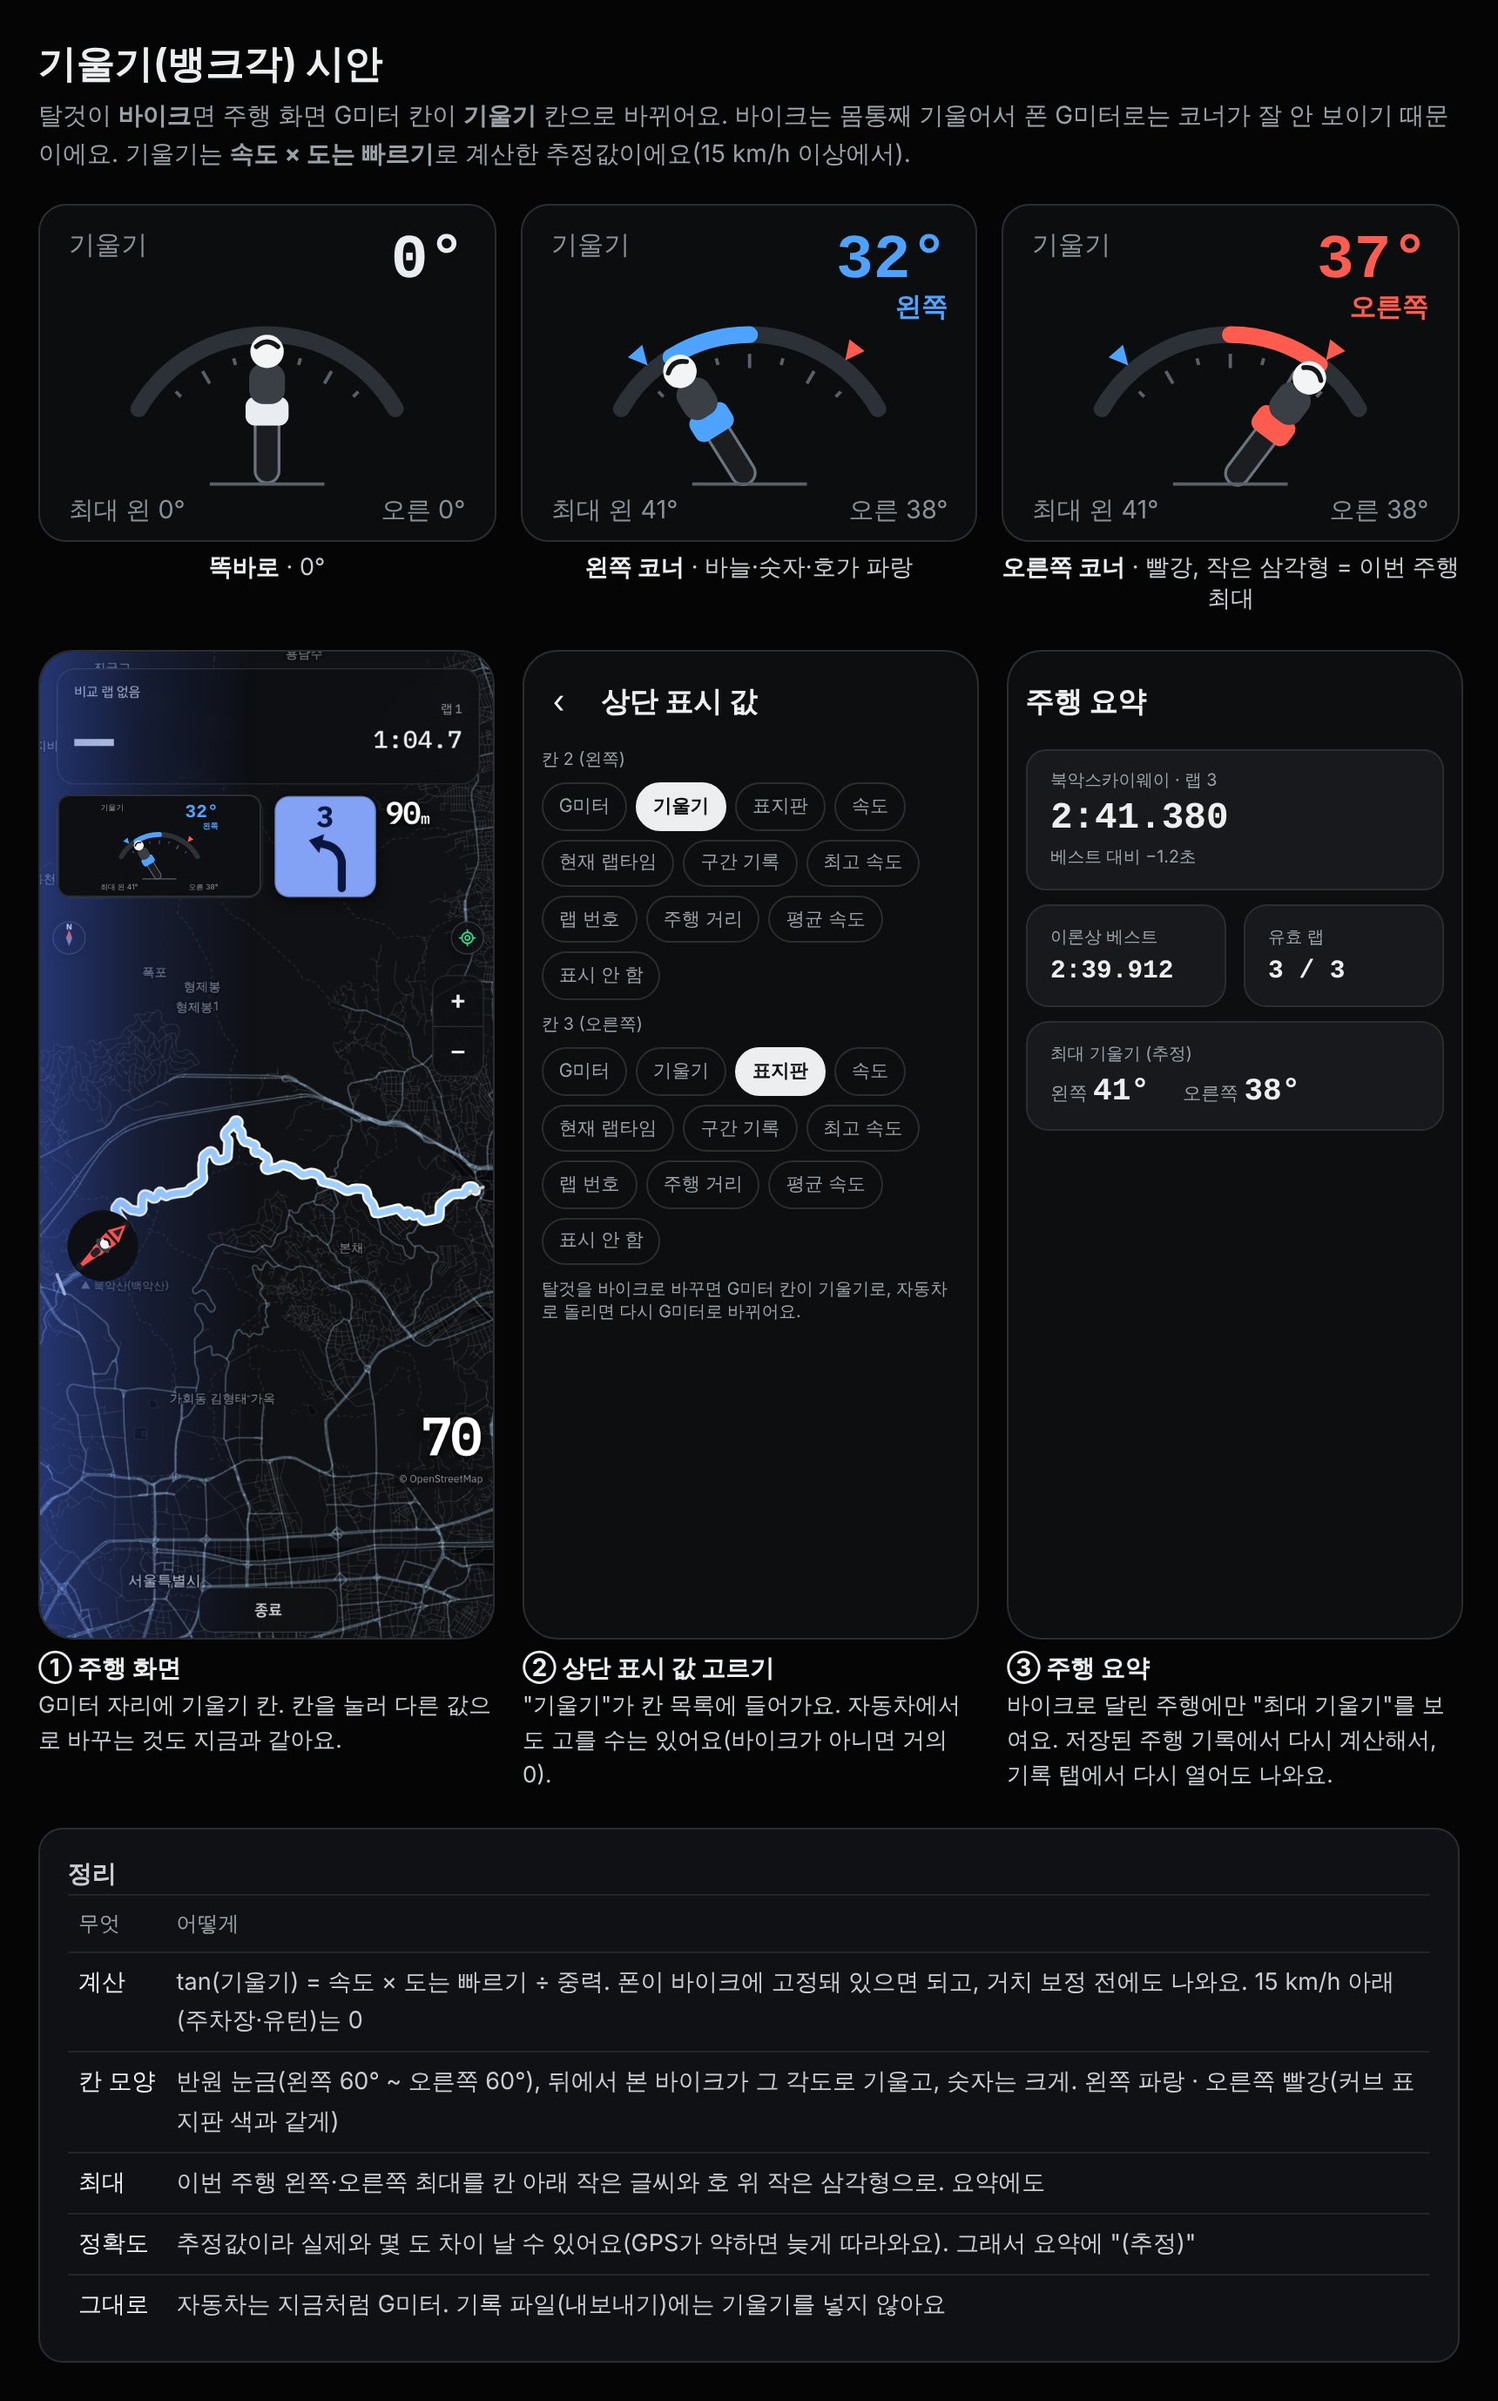
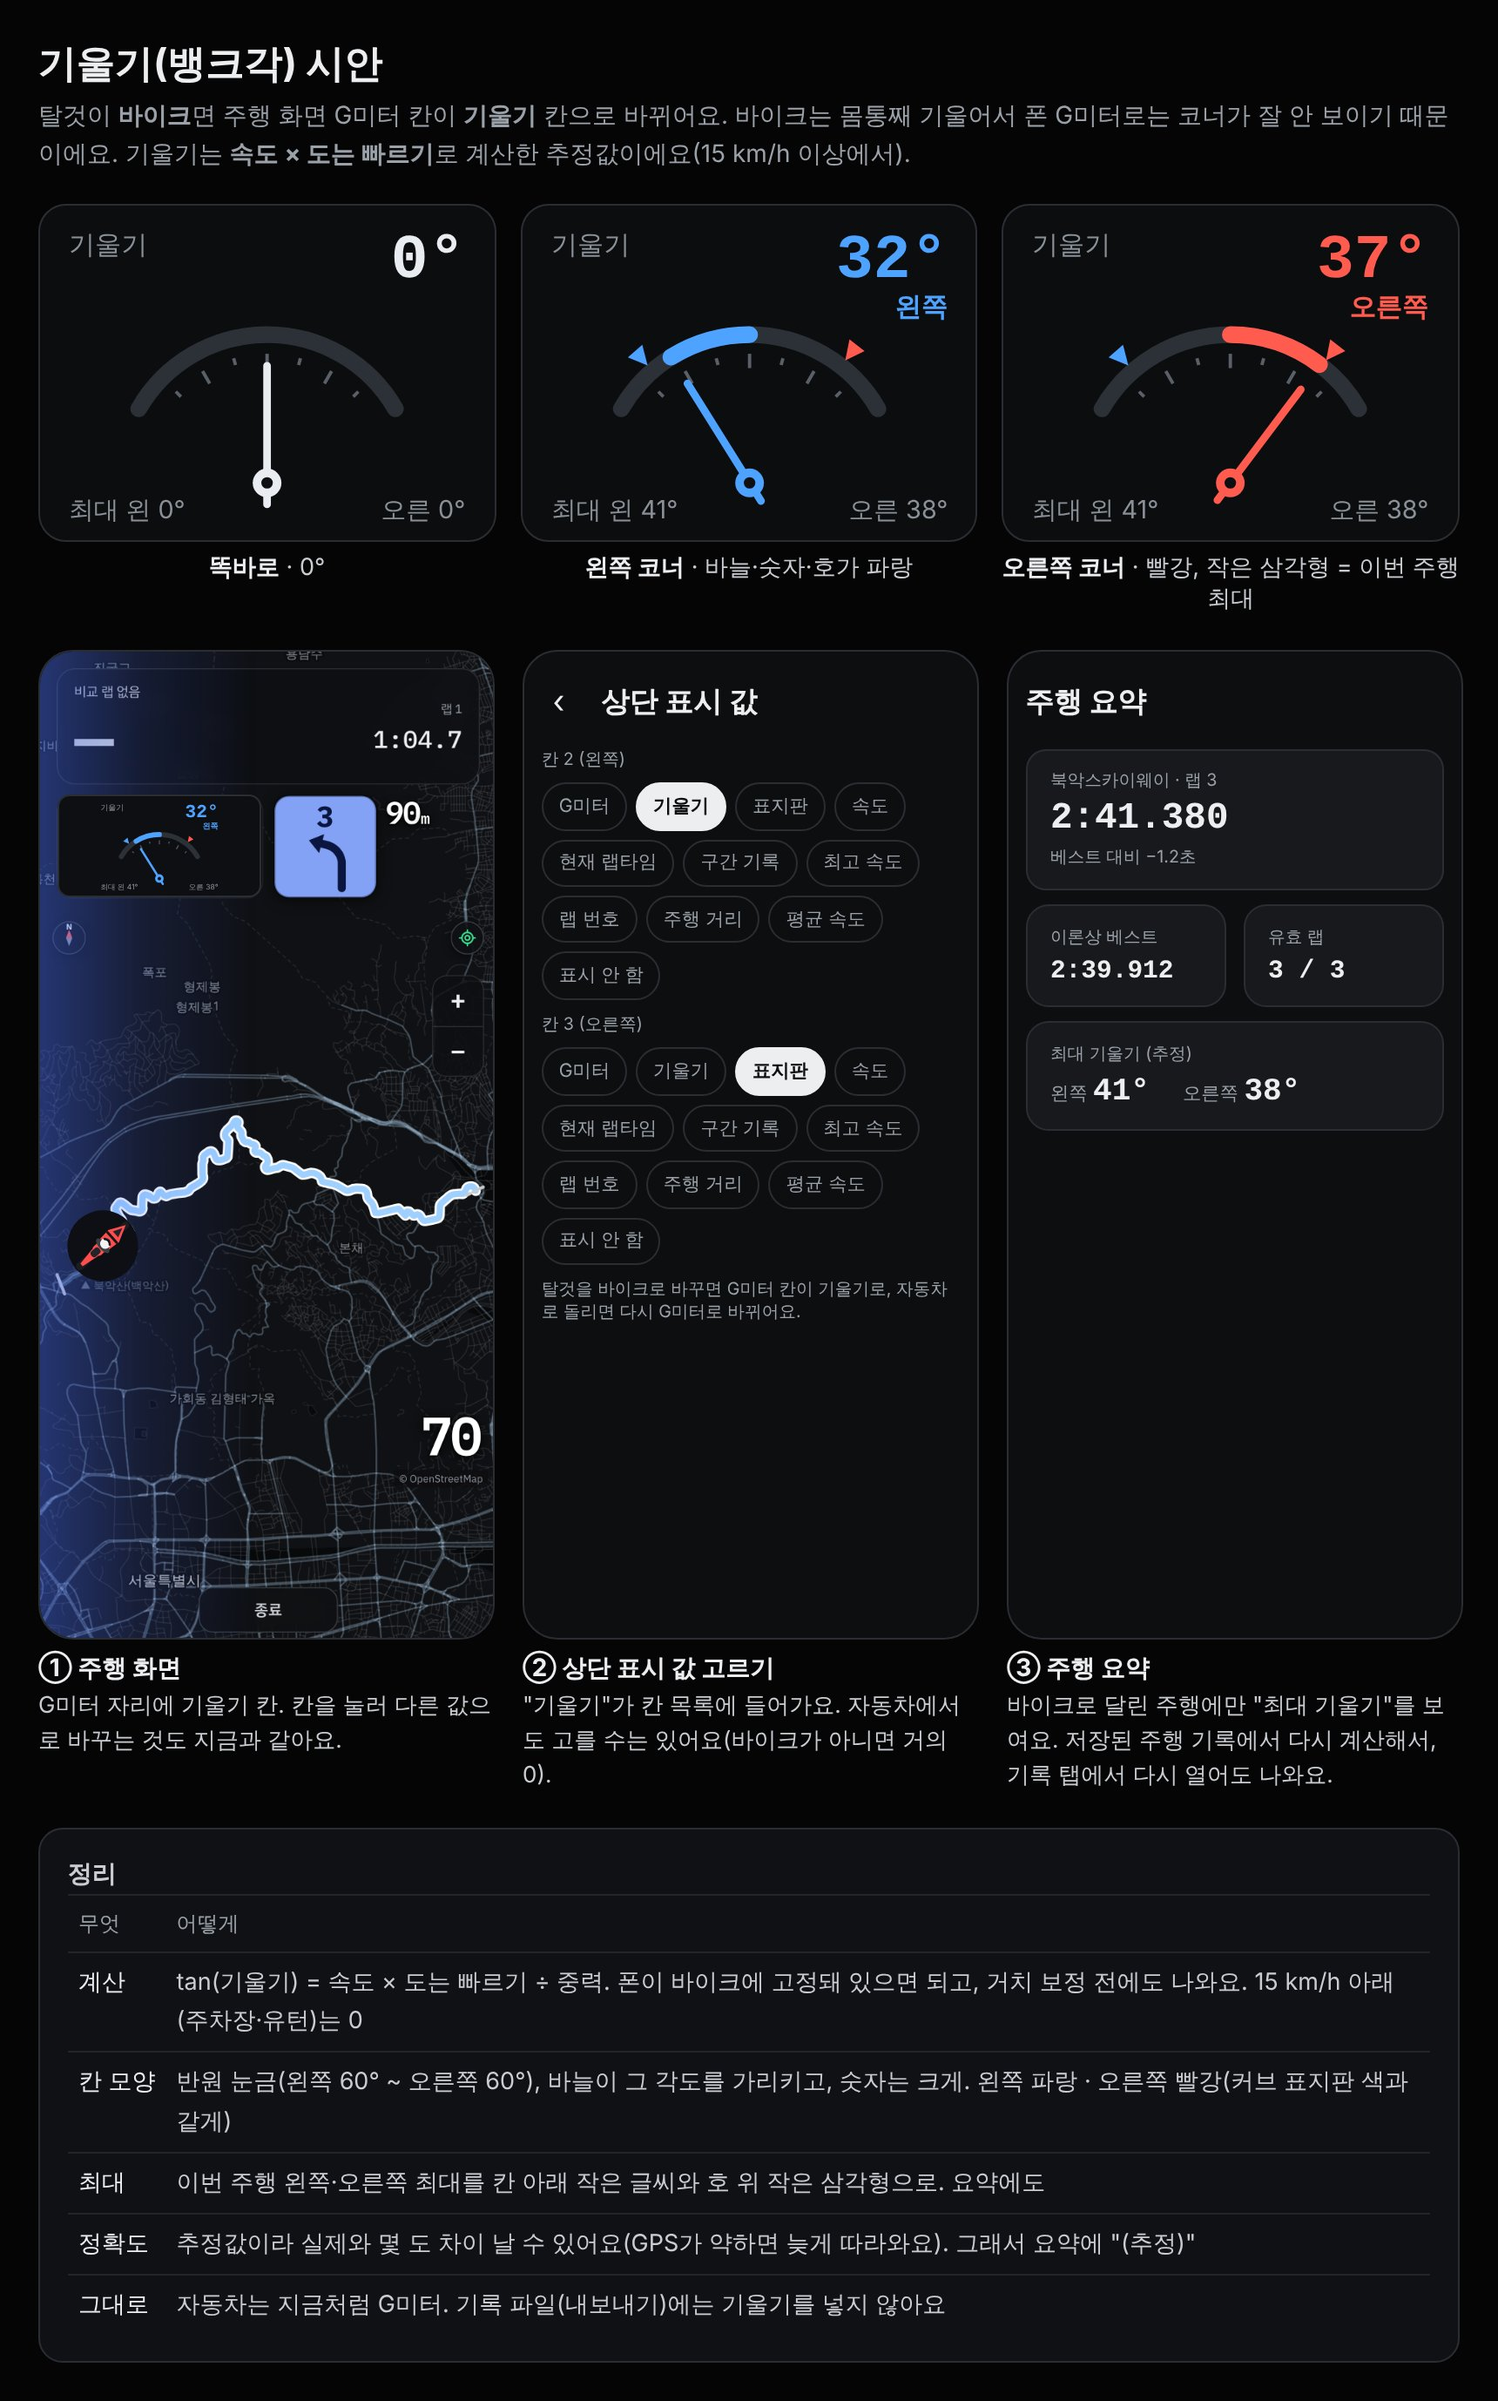
기울기 시안: 바이크 그림 대신 바늘 (세영 요청)
Claude-Session: https://claude.ai/code/session_016MogDNvNcourc5GYJT713m

diff --git a/docs/superpowers/specs/2026-11-18-bike-mode-design.md b/docs/superpowers/specs/2026-11-18-bike-mode-design.md
@@ -42,7 +42,7 @@
 - 도는 빠르기 = 융합 진행 방향(ψ)의 0.5초 변화. 15 km/h 아래는 0, ±60°로 자름, 0.25초 평활
 - 라이브: `LiveState.leanDeg`(+ 오른쪽, − 왼쪽), `maxLeanLeftDeg`·`maxLeanRightDeg`
 - 요약: 처리된 궤적(10 Hz 속도·나침반 방향)으로 같은 계산 → `maxLeanOf` (예전 기록도 다시 계산됨)
-- 화면(시안 `docs/mock/2026-11-18-lean.jpg`): 상단 칸 "기울기" — 반원 눈금(±60°), 뒤에서 본 바이크가 기울고 큰 숫자, 왼쪽 파랑·오른쪽 빨강, 이번 주행 최대(작은 삼각형·아래 글자). 탈것을 바이크로 바꾸면 G미터 칸 → 기울기, 자동차로 돌리면 다시 G미터. 주행 요약 "최대 기울기 (추정) 왼쪽 ○° · 오른쪽 ○°"(바이크 주행만)
+- 화면(시안 `docs/mock/2026-11-18-lean.jpg`): 상단 칸 "기울기" — 반원 눈금(±60°), 바늘이 그 각도를 가리키고 큰 숫자 (세영 "바이크 그림은 빼, 깔끔한 바늘로"), 왼쪽 파랑·오른쪽 빨강, 이번 주행 최대(작은 삼각형·아래 글자). 탈것을 바이크로 바꾸면 G미터 칸 → 기울기, 자동차로 돌리면 다시 G미터. 주행 요약 "최대 기울기 (추정) 왼쪽 ○° · 오른쪽 ○°"(바이크 주행만)
 - 기록 파일(CSV·GPX 내보내기)에는 넣지 않는다
 
 ## 시험
